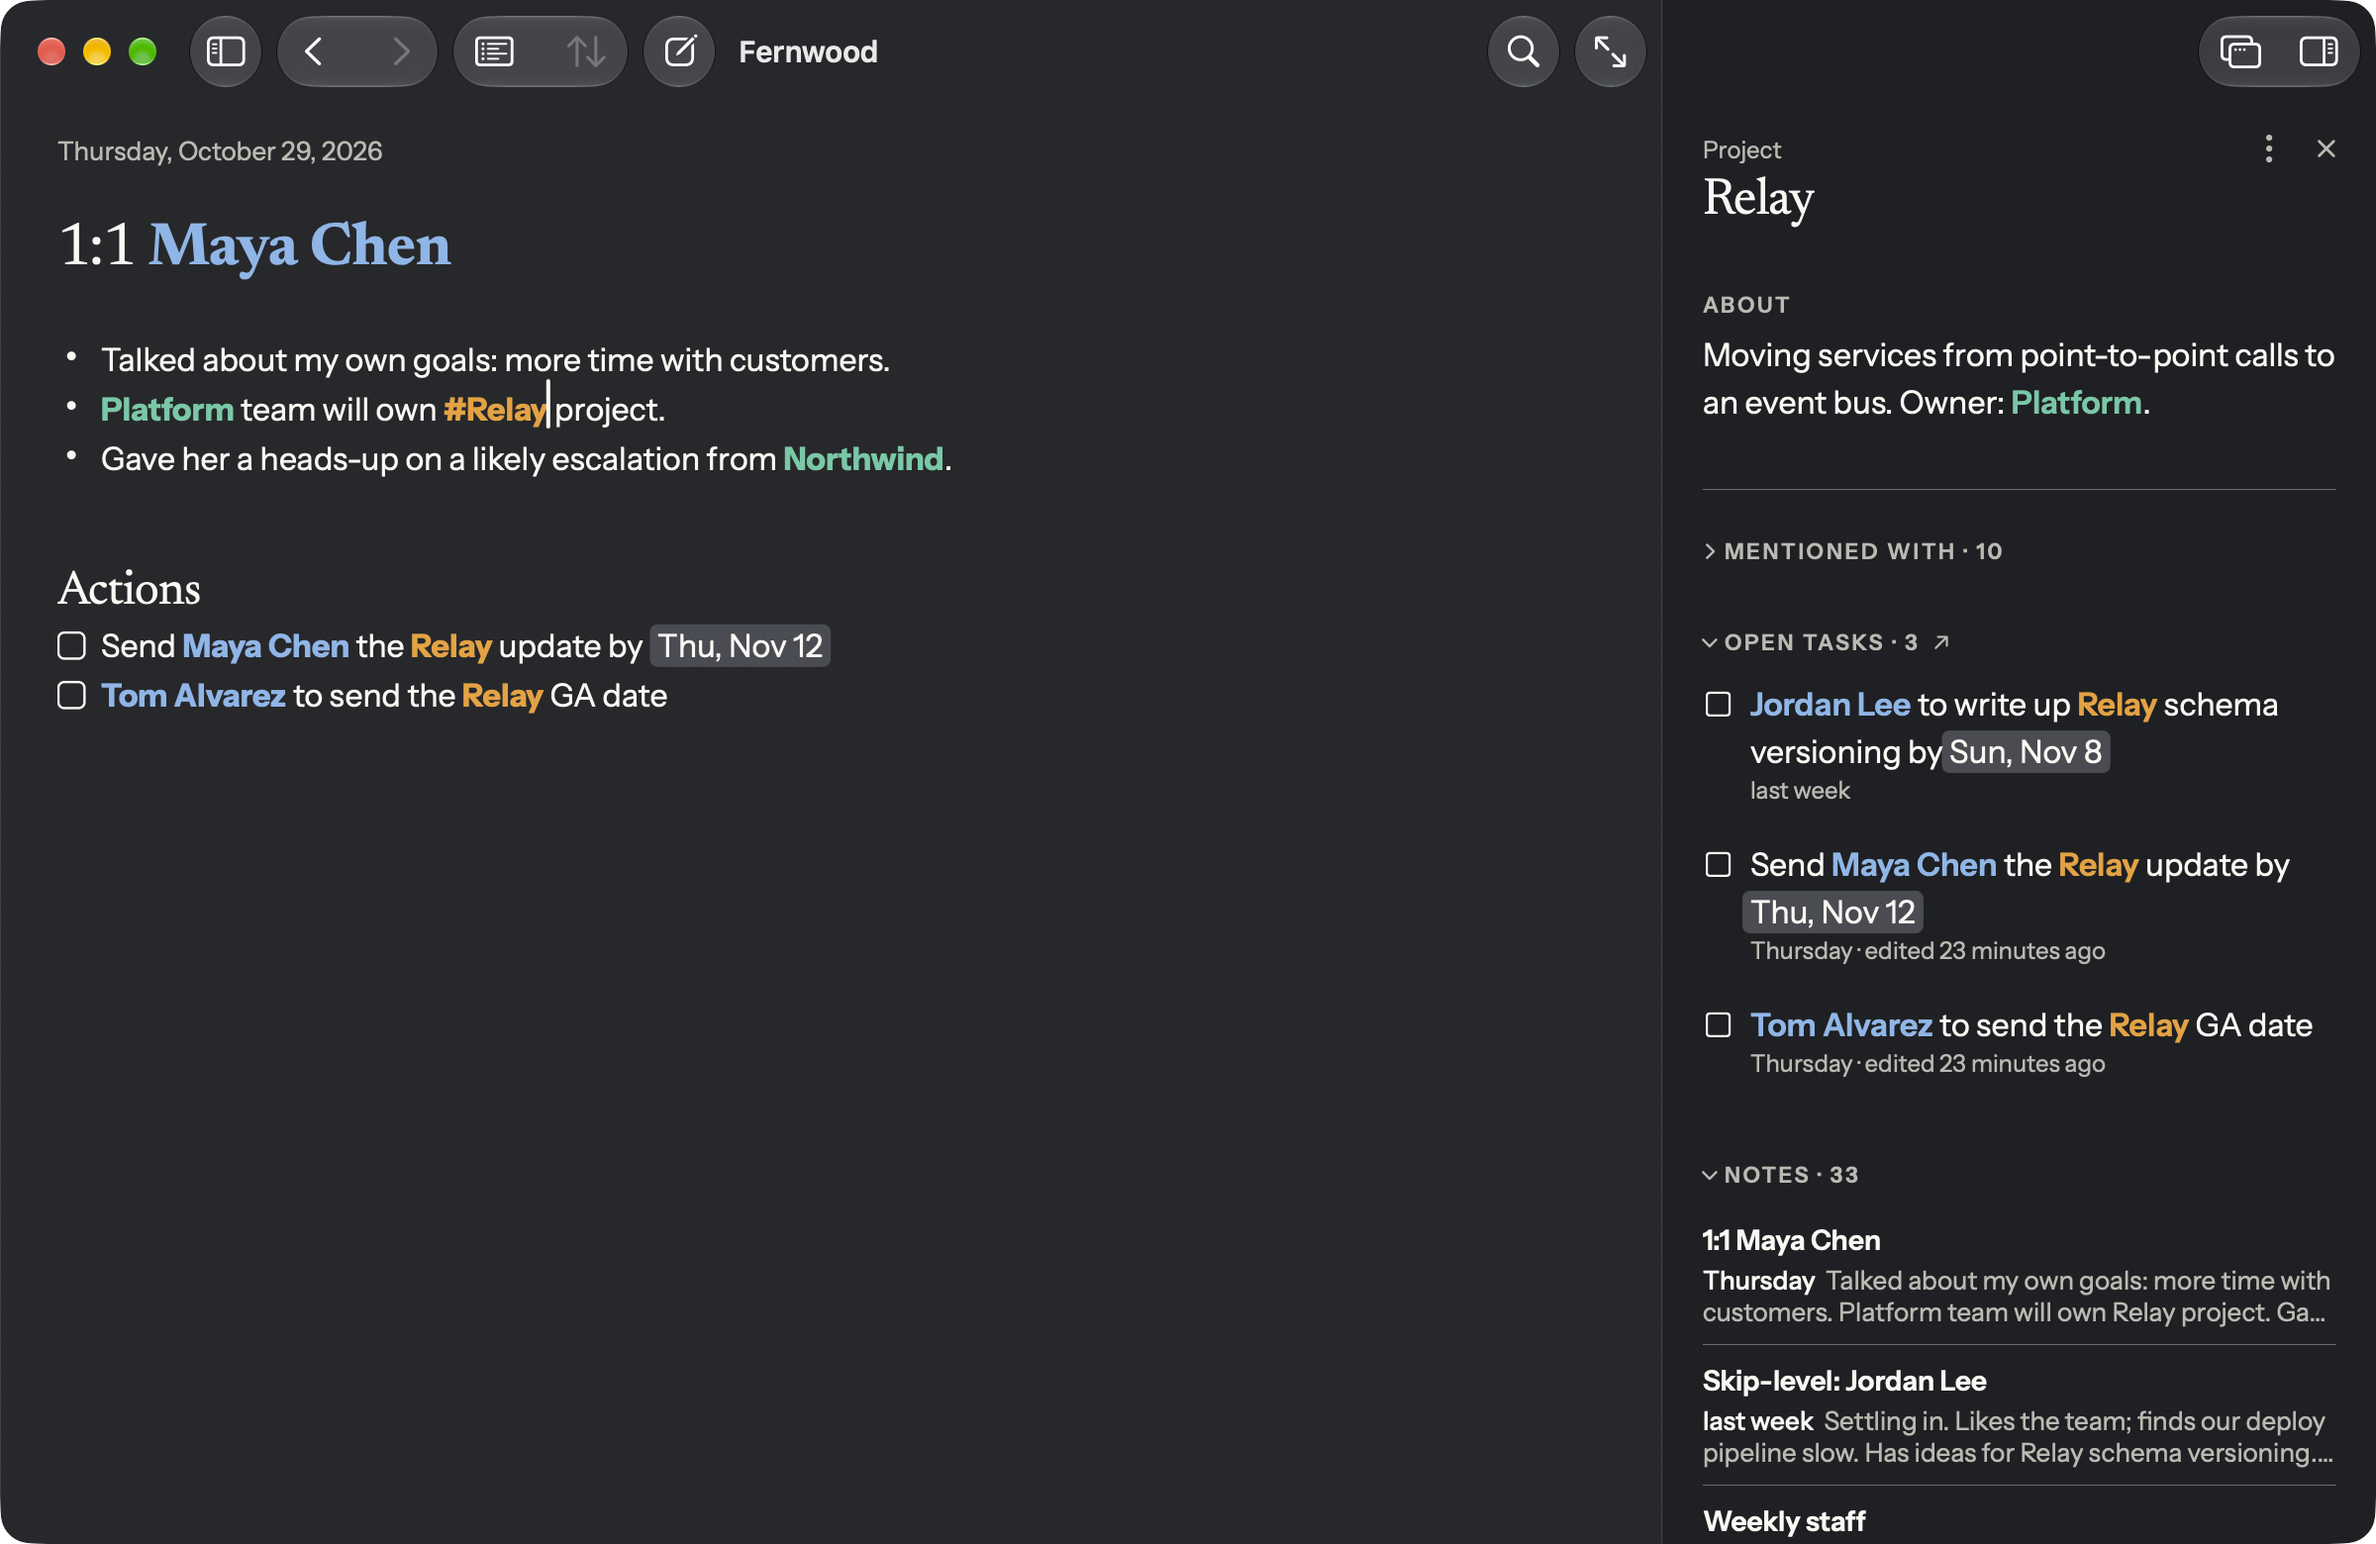
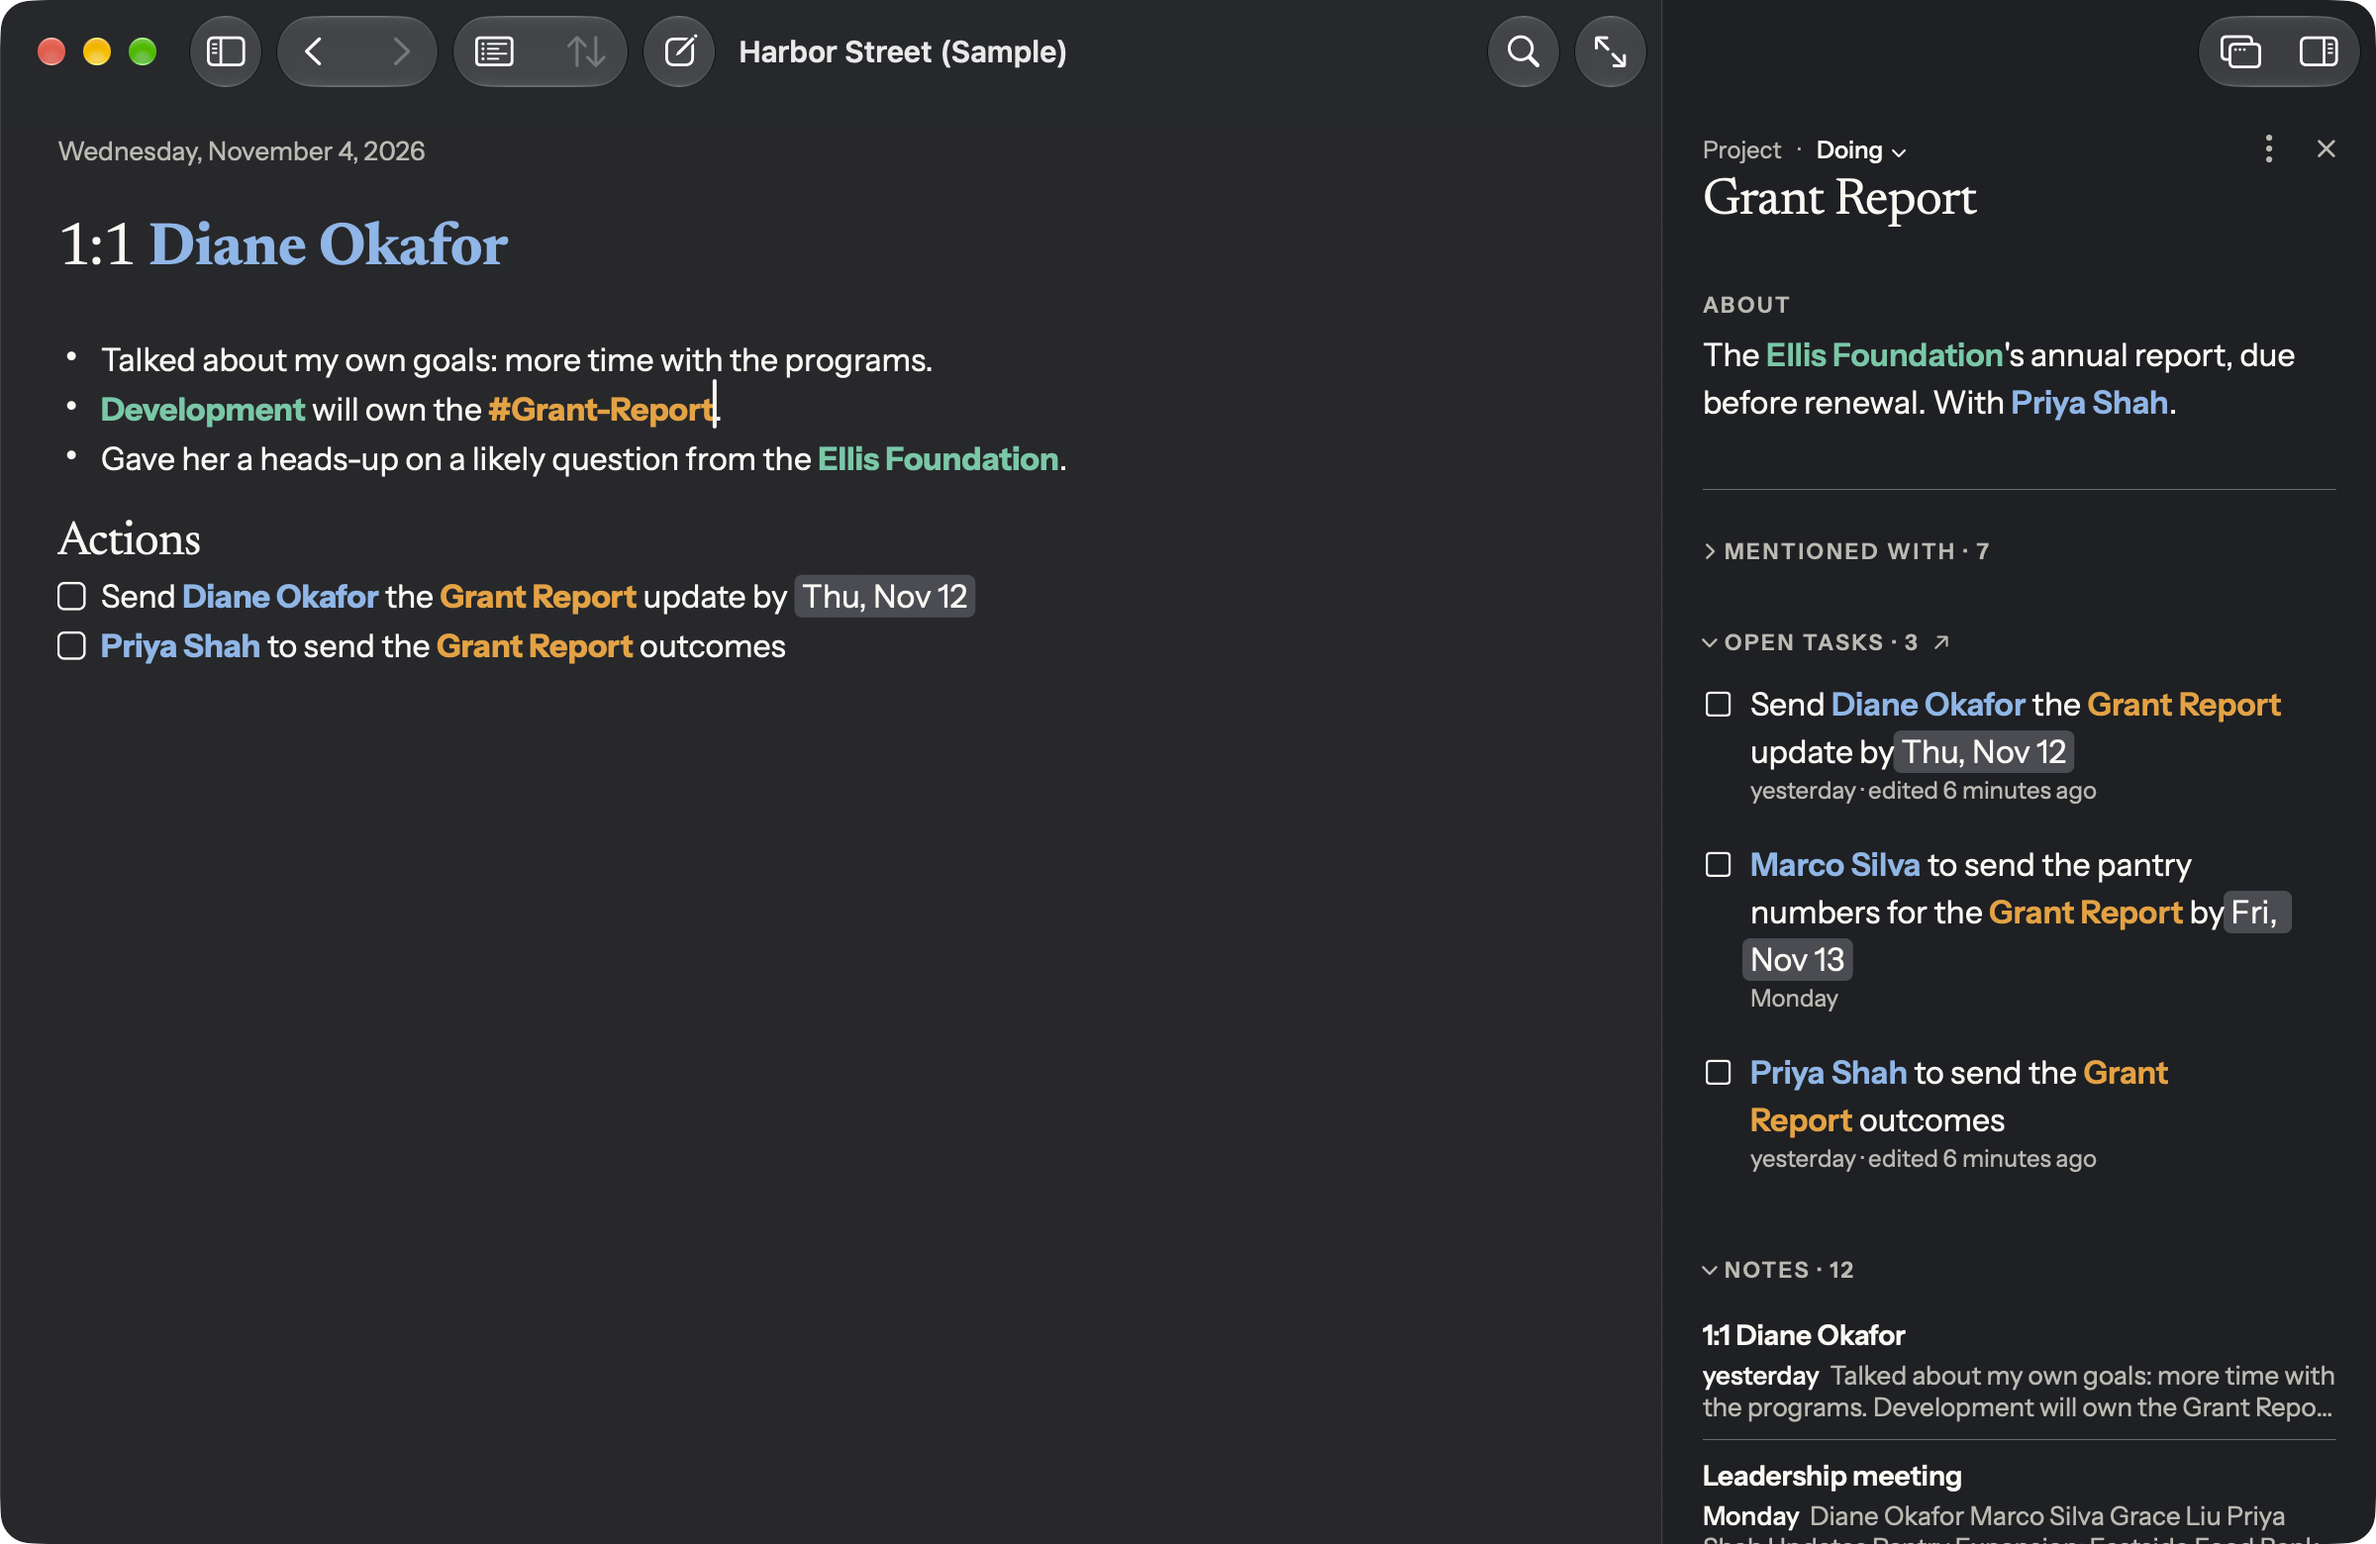
Introducing Puli moves to Harbor Street
The examples and screenshots now come from the Harbor Street sample, so
they match Getting Started: Diane Okafor, Development, the Grant Report,
and Priya Shah's promise.

diff --git a/puli/guide/introduction.html b/puli/guide/introduction.html
@@ -15,14 +15,14 @@ permalink: /puli/guide/introduction/
         <a href="{{ '/assets/images/puli/guide/intro-note-light.png' | relative_url }}" aria-label="Show the screenshot full size">
           <picture>
             <source srcset="{{ '/assets/images/puli/guide/intro-note-dark.png' | relative_url }}" media="(prefers-color-scheme: dark)">
-            <img src="{{ '/assets/images/puli/guide/intro-note-light.png' | relative_url }}" width="1200" height="780" alt="A 1:1 note with Maya Chen, tagged with Platform, Relay, and Northwind. Beside it, the context pane shows Maya’s page: the people, groups, and projects she’s mentioned with, and her open task.">
+            <img src="{{ '/assets/images/puli/guide/intro-note-light.png' | relative_url }}" width="1200" height="780" alt="A 1:1 note with Diane Okafor, tagged with Development, Grant Report, and the Ellis Foundation. Beside it, the context pane shows Diane’s page: her open task, and her notes, newest first.">
           </picture>
         </a>
-        <figcaption>A note tagged with Maya, Platform, and Relay, with Maya’s page in the context pane to the right.</figcaption>
+        <figcaption>A note tagged with Diane, Development, and Grant Report, with Diane’s page in the context pane to the right.</figcaption>
       </figure>
       <div class="topic__text">
         <p>A note from a meeting is rarely about one thing. It’s about the people in the room, the teams they’re on, and the projects they discussed. A folder can only keep it in one of those places. Choosing a single home for your note robs you of valuable context later.</p>
-        <p>In Puli, you don’t file notes. You tag them. Write <code>@Maya-Chen</code>, <code>!Platform</code>, and <code>#Relay</code> in a note, and it shows up on Maya’s page, on the Platform team’s page, and on the Relay project’s page. It’s one note, in three places, and you didn’t have to decide between them.</p>
+        <p>In Puli, you don’t file notes. You tag them. Write <code>@Diane-Okafor</code>, <code>!Development</code>, and <code>#Grant-Report</code> in a note, and it shows up on Diane’s page, on the Development team’s page, and on the Grant Report project’s page. It’s one note, in three places, and you didn’t have to decide between them.</p>
       </div>
     </div>
 
@@ -32,15 +32,15 @@ permalink: /puli/guide/introduction/
         <a href="{{ '/assets/images/puli/guide/intro-page-light.png' | relative_url }}" aria-label="Show the screenshot full size">
           <picture>
             <source srcset="{{ '/assets/images/puli/guide/intro-page-dark.png' | relative_url }}" media="(prefers-color-scheme: dark)">
-            <img src="{{ '/assets/images/puli/guide/intro-page-light.png' | relative_url }}" width="1200" height="780" loading="lazy" alt="Maya Chen’s page in the context pane, with Mentioned with open: the people, groups, and projects she’s mentioned with, each with a count, like Raj Mehta 6, Northwind 5, and Relay 6. Below it, her 25 notes, newest first.">
+            <img src="{{ '/assets/images/puli/guide/intro-page-light.png' | relative_url }}" width="1200" height="780" loading="lazy" alt="Diane Okafor’s page in the context pane, with Mentioned with open: the people, groups, and projects she’s mentioned with, each with a count of the notes they share. Below it, her notes, newest first.">
           </picture>
         </a>
-        <figcaption>Maya’s page lists who and what she’s mentioned with, and how often.</figcaption>
+        <figcaption>Diane’s page lists who and what she’s mentioned with, and how often.</figcaption>
       </figure>
       <div class="topic__text">
-        <p>Every tag is a thread. Write about Maya in January, in March, and in June, and her page gathers all three, newest first. Nothing you wrote about her is lost in an old notebook.</p>
-        <p>The threads connect the people, groups, and projects, too. Each tag’s page shows a list of the people, groups, and projects it’s mentioned with, and how often: who Maya works with, which projects keep coming up together, and which teams they involve. You never set any of that up. It comes from the way you write.</p>
-        <p>Because a tag stands for someone, not just a word, you can rename Maya, or give her an alias, and every note still finds her.</p>
+        <p>Every tag is a thread. Write about Diane in January, in March, and in June, and her page gathers all three, newest first. Nothing you wrote about her is lost in an old notebook.</p>
+        <p>The threads connect the people, groups, and projects, too. Each tag’s page shows a list of the people, groups, and projects it’s mentioned with, and how often: who Diane works with, which projects keep coming up together, and which teams they involve. You never set any of that up. It comes from the way you write.</p>
+        <p>Because a tag stands for someone, not just a word, you can rename Diane, or give her an alias, and every note still finds her.</p>
       </div>
     </div>
 
@@ -50,14 +50,14 @@ permalink: /puli/guide/introduction/
         <a href="{{ '/assets/images/puli/guide/intro-note2-light.png' | relative_url }}" aria-label="Show the screenshot full size">
           <picture>
             <source srcset="{{ '/assets/images/puli/guide/intro-note2-dark.png' | relative_url }}" media="(prefers-color-scheme: dark)">
-            <img src="{{ '/assets/images/puli/guide/intro-note2-light.png' | relative_url }}" width="1200" height="780" loading="lazy" alt="The same 1:1 note with Maya Chen, with the cursor in #Relay. The context pane shows the Relay project’s page: what it’s about, its three open tasks, and its notes.">
+            <img src="{{ '/assets/images/puli/guide/intro-note2-light.png' | relative_url }}" width="1200" height="780" loading="lazy" alt="The same 1:1 note with Diane Okafor, with the cursor in #Grant-Report. The context pane shows the Grant Report project’s page: what it’s about, its open tasks, and its notes.">
           </picture>
         </a>
-        <figcaption>The cursor is in #Relay, so Relay’s page takes Maya’s place in the context pane.</figcaption>
+        <figcaption>The cursor is in #Grant-Report, so Grant Report’s page takes Diane’s place in the context pane.</figcaption>
       </figure>
       <div class="topic__text">
-        <p>Before a meeting, you need to remember where you left off last week. Create a new note, type <code>@Maya-Chen</code>, and her page opens in the context pane. Notes from your last meeting are there, as are the open tasks between you. Everything you need for your next meeting.</p>
-        <p>The pane follows your cursor. Move into <code>#Relay</code>, and Relay’s page takes Maya’s place. You don’t search, and you don’t switch windows. The context comes to you, while you write.</p>
+        <p>Before a meeting, you need to remember where you left off last week. Create a new note, type <code>@Diane-Okafor</code>, and her page opens in the context pane. Notes from your last meeting are there, as are the open tasks between you. Everything you need for your next meeting.</p>
+        <p>The pane follows your cursor. Move into <code>#Grant-Report</code>, and Grant Report’s page takes Diane’s place. You don’t search, and you don’t switch windows. The context comes to you, while you write.</p>
       </div>
     </div>
 
@@ -67,18 +67,18 @@ permalink: /puli/guide/introduction/
         <a href="{{ '/assets/images/puli/guide/intro-promises-light.png' | relative_url }}" aria-label="Show the screenshot full size">
           <picture>
             <source srcset="{{ '/assets/images/puli/guide/intro-promises-dark.png' | relative_url }}" media="(prefers-color-scheme: dark)">
-            <img src="{{ '/assets/images/puli/guide/intro-promises-light.png' | relative_url }}" width="1200" height="780" loading="lazy" alt="The 1:1 note with Maya Chen, with the cursor in @Tom-Alvarez in the task Tom Alvarez to send the Relay GA date. The context pane shows Tom Alvarez’s page, with that task under Open tasks, and his notes below.">
+            <img src="{{ '/assets/images/puli/guide/intro-promises-light.png' | relative_url }}" width="1200" height="780" loading="lazy" alt="The 1:1 note with Diane Okafor, with the cursor in @Priya-Shah, in the task Priya Shah to send the Grant Report outcomes. The context pane shows Priya Shah’s page, with that task under Open tasks, and her notes below.">
           </picture>
         </a>
-        <figcaption>Tom’s page shows the task he owes you, from the note where he promised it.</figcaption>
+        <figcaption>Priya’s page shows the task she owes you, from the note where she promised it.</figcaption>
       </figure>
       <div class="topic__text">
         <p>Meetings end in promises: things you said you’d do, and things other people said they’d do for you. Write either as a task, right in your note:</p>
         <ul class="task-lines">
-          <li><code>- [ ] Send @Maya-Chen the Relay update by Fri</code> is yours.</li>
-          <li><code>- [ ] @tom to send the Q3 numbers</code> is Tom’s.</li>
+          <li><code>- [ ] Send @Diane-Okafor the #Grant-Report update by Thu</code> is yours.</li>
+          <li><code>- [ ] @Priya-Shah to send the #Grant-Report outcomes</code> is Priya’s.</li>
         </ul>
-        <p>Puli keeps both. Tom’s page shows what he owes you, and Maya’s shows what you owe her. The next time either comes up, so do their promises.</p>
+        <p>Puli keeps both. Priya’s page shows what she owes you, and Diane’s shows what you owe her. The next time either comes up, so do their promises.</p>
       </div>
     </div>
 
